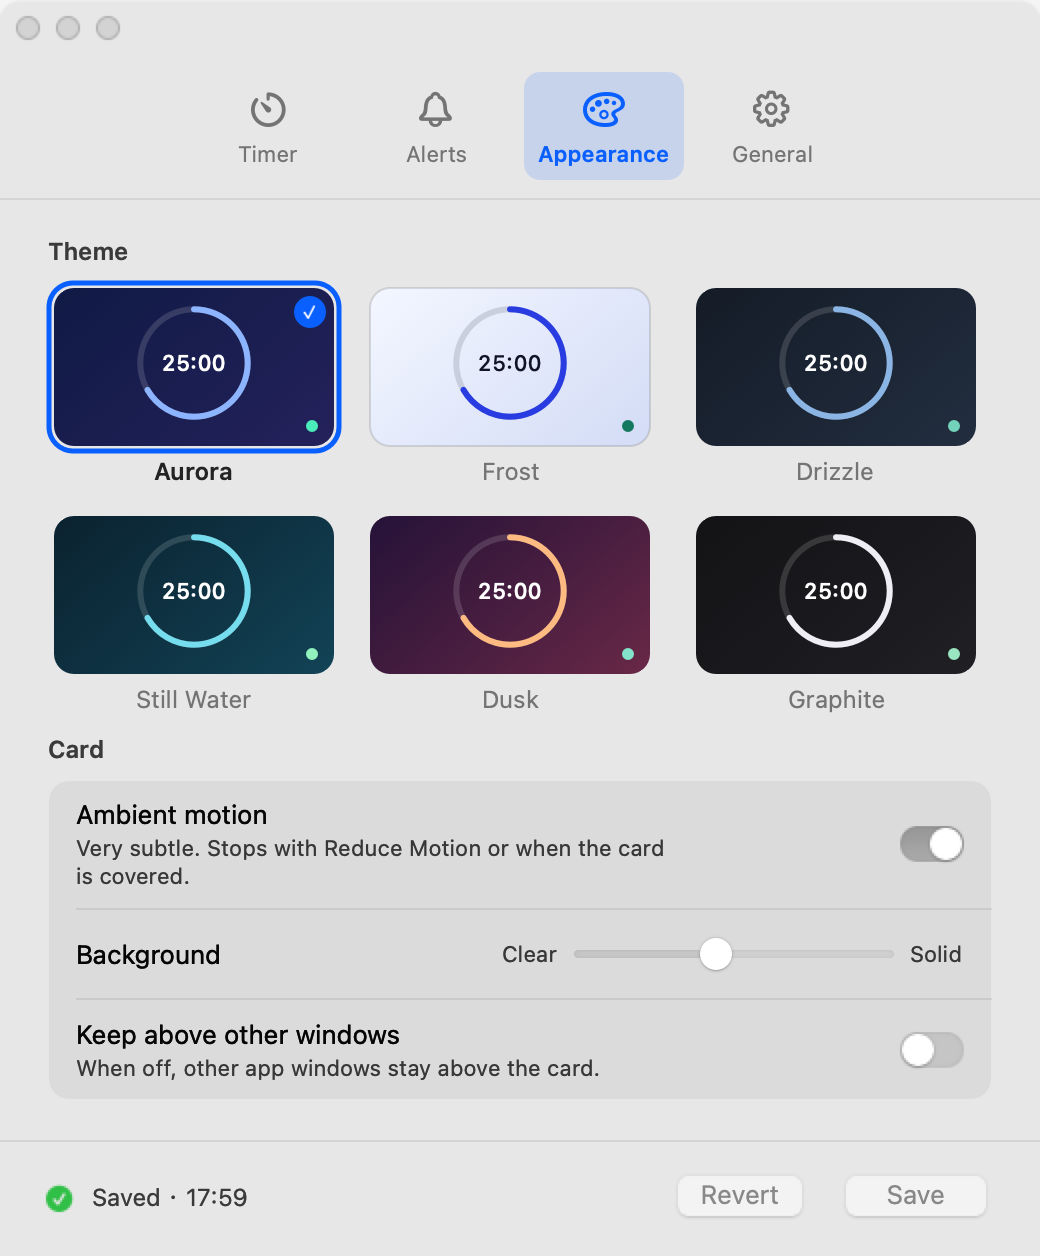
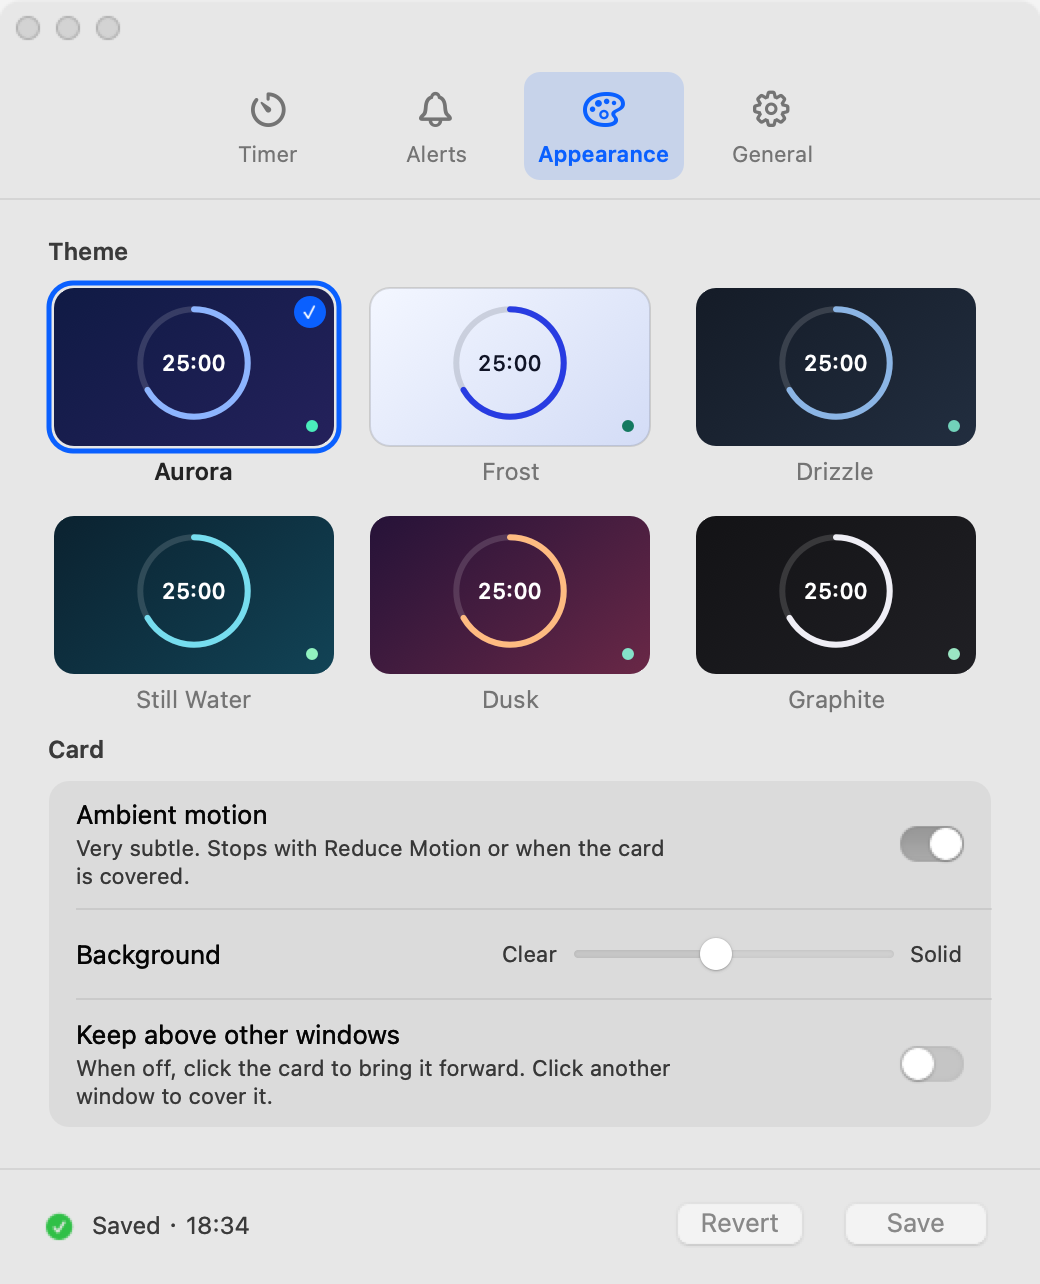
Release FocusCard 3.1.3 with normal window interaction / 发布普通窗口交互版本 3.1.3

diff --git a/src/FocusCard.m b/src/FocusCard.m
@@ -220,6 +220,13 @@ static NSRect TOP(CGFloat x, CGFloat top, CGFloat w, CGFloat h) { return NSMakeR
 @implementation CardWindow
 - (BOOL)canBecomeKeyWindow { return YES; }
 - (BOOL)canBecomeMainWindow { return YES; }
+- (void)sendEvent:(NSEvent *)event {
+    if (event.type == NSEventTypeLeftMouseDown) {
+        if (@available(macOS 14.0, *)) [NSApp activate]; else [NSApp activateIgnoringOtherApps:YES];
+        [self makeKeyAndOrderFront:nil];
+    }
+    [super sendEvent:event];
+}
 // Space starts or pauses the timer unless a focused button wants the key itself.
 - (void)keyDown:(NSEvent *)event {
     NSEventModifierFlags mods = event.modifierFlags & (NSEventModifierFlagCommand | NSEventModifierFlagOption | NSEventModifierFlagControl);
@@ -1290,8 +1297,7 @@ static void setTitle(NSMenuItem *i, NSString *s) { if (i && ![i.title isEqualToS
     self.panel = [[CardWindow alloc] initWithContentRect:self.cardHost.bounds styleMask:NSWindowStyleMaskBorderless backing:NSBackingStoreBuffered defer:NO];
     self.panel.title = T(@"专注卡片", @"FocusCard"); self.panel.opaque = NO; self.panel.backgroundColor = NSColor.clearColor; self.panel.hasShadow = NO;
     self.panel.releasedWhenClosed = NO; self.panel.canHide = NO;
-    self.panel.collectionBehavior = NSWindowCollectionBehaviorCanJoinAllSpaces | NSWindowCollectionBehaviorStationary | NSWindowCollectionBehaviorFullScreenAuxiliary;
-    self.panel.level = self.pinned ? NSFloatingWindowLevel : NSNormalWindowLevel - 1;
+    [self applyCardWindowMode];
     self.panel.contentView = self.cardHost; self.panel.delegate = self;
     [self.panel setAccessibilityLabel:T(@"专注卡片", @"FocusCard")];
 
@@ -1401,14 +1407,19 @@ static void setTitle(NSMenuItem *i, NSString *s) { if (i && ![i.title isEqualToS
     self.lastSeconds = -1; [self refreshForce:YES];
 }
 
+- (void)applyCardWindowMode {
+    self.panel.level = self.pinned ? NSFloatingWindowLevel : NSNormalWindowLevel;
+    self.panel.collectionBehavior = NSWindowCollectionBehaviorCanJoinAllSpaces | NSWindowCollectionBehaviorFullScreenAuxiliary
+        | (self.pinned ? NSWindowCollectionBehaviorStationary : NSWindowCollectionBehaviorManaged);
+}
 - (void)showCard:(id)sender {
     BOOL onScreen = NO;
     for (NSScreen *screen in NSScreen.screens) if (NSIntersectsRect(self.panel.frame, NSInsetRect(screen.visibleFrame, 40, 40))) onScreen = YES;
     if (!onScreen) { NSRect s = (NSScreen.mainScreen ?: NSScreen.screens.firstObject).visibleFrame; NSSize z = self.panel.frame.size; [self.panel setFrameOrigin:NSMakePoint(NSMaxX(s) - z.width - 32, NSMaxY(s) - z.height - 32)]; }
     self.cardVisible = YES; [self save];
     if (self.headless) return;
-    if (self.pinned) { [self activate]; [self.panel makeKeyAndOrderFront:nil]; [self.panel orderFrontRegardless]; }
-    else [self.panel orderFront:nil];
+    [self activate]; [self.panel makeKeyAndOrderFront:nil];
+    if (self.pinned) [self.panel orderFrontRegardless];
     [self.surface updateMotion];
     [self refreshForce:YES];
 }
@@ -1721,7 +1732,7 @@ static const CGFloat kSettingsW = 520, kSettingsTop = 74, kSettingsBottom = 58;
     GroupBox *card = [self group:@[
         [self rowTitle:T(@"环境动效", @"Ambient motion") detail:[self note:T(@"非常轻微。开启“减少动态效果”或卡片被遮挡时自动停止。", @"Very subtle. Stops with Reduce Motion or when the card is covered.") width:300] control:self.ambientSwitch],
         [self rowTitle:T(@"背景", @"Background") detail:nil control:opacity],
-        [self rowTitle:T(@"显示在其他窗口上方", @"Keep above other windows") detail:[self note:T(@"关闭时，其他应用窗口始终显示在卡片上方。", @"When off, other app windows stay above the card.") width:300] control:self.pinSwitch]]];
+        [self rowTitle:T(@"显示在其他窗口上方", @"Keep above other windows") detail:[self note:T(@"关闭时，点击卡片前置；点击其他窗口时由该窗口覆盖。", @"When off, click the card to bring it forward. Click another window to cover it.") width:300] control:self.pinSwitch]]];
     return [self paneWith:@[[self caption:T(@"主题", @"Theme")], grid, [self caption:T(@"卡片", @"Card")], card]];
 }
 - (NSView *)generalPane {
@@ -2025,7 +2036,7 @@ static BOOL languageIsChinese(NSString *pref) { return [pref isEqualToString:@"z
     self.themeKey = themeNamed(d[kTheme]).key; self.ambient = [d[kAmbient] boolValue];
     self.languagePref = [@[@"zh", @"en"] containsObject:d[kLanguage]] ? d[kLanguage] : @"system";
     self.pinned = [d[kPinned] boolValue]; self.glassOpacity = boundedDouble([d[kOpacity] doubleValue], .1, .9, .45); self.showMenuTime = [d[kMenuTime] boolValue];
-    self.panel.level = self.pinned ? NSFloatingWindowLevel : NSNormalWindowLevel - 1;
+    [self applyCardWindowMode];
     if (self.notifications && !wasNotifying) [self ensureNotifications];
     NSString *loginError = nil;
     if ([d[kLogin] boolValue] != [self loginEnabled]) loginError = [self setLogin:[d[kLogin] boolValue]];
@@ -2418,7 +2429,7 @@ static void selfTest(NSString *resultsPath) {
         CHECK(@"SV-01", @"Settings open clean: Save disabled, 'saved' status", ![a settingsDirty] && !a.saveButton.enabled && !a.revertButton.enabled && a.statusLabel.stringValue.length > 0, a.statusLabel.stringValue);
         a.pinSwitch.state = NSControlStateValueOn; [a switchChanged:a.pinSwitch];
         CHECK(@"SV-02", @"A change marks the draft: Save enabled, '1 unsaved change', nothing stored yet", [a settingsDirty] && a.saveButton.enabled && a.revertButton.enabled && a.settingsWindow.documentEdited
-              && [a.statusLabel.stringValue isEqualToString:T(@"1 项未保存的更改", @"1 unsaved change")] && !a.pinned && ![d boolForKey:kPinned] && a.panel.level < NSNormalWindowLevel, a.statusLabel.stringValue);
+              && [a.statusLabel.stringValue isEqualToString:T(@"1 项未保存的更改", @"1 unsaved change")] && !a.pinned && ![d boolForKey:kPinned] && a.panel.level == NSNormalWindowLevel, a.statusLabel.stringValue);
         a.menuTimeSwitch.state = NSControlStateValueOff; [a switchChanged:a.menuTimeSwitch];
         a.focusStepper.integerValue = 26; [a stepDuration:a.focusStepper];
         CHECK(@"SV-03", @"Several changes are counted", [a.statusLabel.stringValue isEqualToString:T(@"3 项未保存的更改", @"3 unsaved changes")] && [a dirtyKeys].count == 3, a.statusLabel.stringValue);
@@ -2430,7 +2441,7 @@ static void selfTest(NSString *resultsPath) {
         CHECK(@"SV-06", @"Save stores the change, applies it and confirms with the time", saved && a.pinned && [d boolForKey:kPinned] && a.panel.level == NSFloatingWindowLevel && ![a settingsDirty] && !a.saveButton.enabled
               && [a.statusLabel.stringValue hasPrefix:T(@"已保存 · ", @"Saved · ")], a.statusLabel.stringValue);
         saveSetting(a, kPinned, @NO);
-        CHECK(@"SV-07", @"Turning it off keeps the card below regular application windows", a.panel.level < NSNormalWindowLevel && ![d boolForKey:kPinned], @"");
+        CHECK(@"SV-07", @"Turning it off uses regular application window ordering", a.panel.level == NSNormalWindowLevel && !(a.panel.collectionBehavior & NSWindowCollectionBehaviorStationary) && ![d boolForKey:kPinned], @"");
         [a durationEditedText:@"abc" rest:NO];
         CHECK(@"SV-08", @"An invalid length is explained and the field returns to the last valid value", [a.focusField.stringValue isEqualToString:@"25"] && [a.durationNote.textColor isEqual:NSColor.systemRedColor], a.durationNote.stringValue);
         a.focusField.stringValue = @"0"; [a controlTextDidChange:[NSNotification notificationWithName:NSControlTextDidChangeNotification object:a.focusField]];
@@ -2952,23 +2963,29 @@ static BOOL windowIsAbove(NSWindow *front, NSWindow *back) {
     [self step:@"UI-20" desc:@"Click Save: stored, 'Saved' with the time, Save disabled, running timer unchanged" wait:.5 shots:@[@"settings"] action:^(AppDelegate *a) { postClick(a.saveButton); }
          check:^NSString *(AppDelegate *a) { NSString *r = saved(a); return r ?: expect(a.focusMinutes == 41 && [a.defaults integerForKey:kFocus] == 41 && a.running && [a secondsRemaining] <= 1500, S(@"min=%ld", (long)a.focusMinutes)); }];
     [self step:@"UI-21" desc:@"Turn on 'Keep above': not applied until Save; Save floats the card" wait:.5 shots:@[] action:^(AppDelegate *a) { press(a.paneButtons[2]); toggleSwitch(a.pinSwitch); }
-         check:^NSString *(AppDelegate *a) { BOOL waiting = a.panel.level < NSNormalWindowLevel && [a settingsDirty]; press(a.saveButton); BOOL on = a.panel.level == NSFloatingWindowLevel && a.pinned;
-                                             toggleSwitch(a.pinSwitch); press(a.saveButton); BOOL off = a.panel.level < NSNormalWindowLevel && !a.pinned;
+         check:^NSString *(AppDelegate *a) { BOOL waiting = a.panel.level == NSNormalWindowLevel && [a settingsDirty]; press(a.saveButton); BOOL on = a.panel.level == NSFloatingWindowLevel && a.pinned;
+                                             toggleSwitch(a.pinSwitch); press(a.saveButton); BOOL off = a.panel.level == NSNormalWindowLevel && !a.pinned;
                                              NSPoint p = [a.saveButton convertPoint:NSMakePoint(NSMidX(a.saveButton.bounds), NSMidY(a.saveButton.bounds)) toView:nil];
                                              NSView *hit = [a.settingsWindow.contentView.superview hitTest:[a.settingsWindow.contentView.superview convertPoint:p fromView:nil]];
                                              return expect(waiting && on && off, S(@"waiting=%d on=%d off=%d hit=%@ enabled=%d", waiting, on, off, hit.className, a.saveButton.enabled)); }];
-    [self step:@"UI-21b" desc:@"An unpinned card stays below a regular window when shown" wait:.4 shots:@[] action:^(AppDelegate *a) {
-            coverWindow = [[NSWindow alloc] initWithContentRect:NSInsetRect(a.panel.frame, -20, -20) styleMask:NSWindowStyleMaskBorderless backing:NSBackingStoreBuffered defer:NO];
+    [self step:@"UI-21b" desc:@"Showing an unpinned card brings it above another regular window" wait:.4 shots:@[] action:^(AppDelegate *a) {
+            coverWindow = [[NSWindow alloc] initWithContentRect:NSInsetRect(a.panel.frame, -20, -20) styleMask:NSWindowStyleMaskTitled backing:NSBackingStoreBuffered defer:NO];
             coverWindow.releasedWhenClosed = NO; coverWindow.level = NSNormalWindowLevel;
-            [coverWindow orderFrontRegardless]; [a showCard:nil]; }
-         check:^NSString *(AppDelegate *a) { return expect(windowIsAbove(coverWindow, a.panel), @"The regular window must cover the unpinned card"); }];
-    [self step:@"UI-21c" desc:@"A pinned card is above a regular window in the window server" wait:.4 shots:@[] action:^(AppDelegate *a) {
-            saveSetting(a, kPinned, @YES); [a showCard:nil]; }
-         check:^NSString *(AppDelegate *a) { return expect(windowIsAbove(a.panel, coverWindow), @"The pinned card must cover the regular window"); }];
-    [self step:@"UI-21d" desc:@"Turning pinning off immediately places the card below a regular window" wait:.4 shots:@[] action:^(AppDelegate *a) {
-            saveSetting(a, kPinned, @NO); }
+            [coverWindow makeKeyAndOrderFront:nil]; [a showCard:nil]; }
+         check:^NSString *(AppDelegate *a) { return expect(windowIsAbove(a.panel, coverWindow), @"The shown card must be in front"); }];
+    [self step:@"UI-21c" desc:@"Selecting another regular window covers the unpinned card" wait:.4 shots:@[] action:^(AppDelegate *a) {
+            [coverWindow makeKeyAndOrderFront:nil]; }
+         check:^NSString *(AppDelegate *a) { return expect(windowIsAbove(coverWindow, a.panel), @"The selected regular window must be in front"); }];
+    [self step:@"UI-21d" desc:@"Clicking the unpinned card brings it back to the front" wait:.4 shots:@[] action:^(AppDelegate *a) {
+            postClickAt(a.card, NSMakePoint(150, 8), 1); }
+         check:^NSString *(AppDelegate *a) { return expect(windowIsAbove(a.panel, coverWindow), @"The clicked card must return to the front"); }];
+    [self step:@"UI-21e" desc:@"A pinned card stays above a selected regular window" wait:.4 shots:@[] action:^(AppDelegate *a) {
+            saveSetting(a, kPinned, @YES); [coverWindow makeKeyAndOrderFront:nil]; }
+         check:^NSString *(AppDelegate *a) { return expect(windowIsAbove(a.panel, coverWindow), @"The pinned card must stay in front"); }];
+    [self step:@"UI-21f" desc:@"After unpinning, selecting a regular window covers the card again" wait:.4 shots:@[] action:^(AppDelegate *a) {
+            saveSetting(a, kPinned, @NO); [coverWindow makeKeyAndOrderFront:nil]; }
          check:^NSString *(AppDelegate *a) { BOOL below = windowIsAbove(coverWindow, a.panel); [coverWindow close]; coverWindow = nil;
-            [a.settingsWindow makeKeyAndOrderFront:nil]; return expect(below, @"Saving unpinned mode must lower the card immediately"); }];
+            [a.settingsWindow makeKeyAndOrderFront:nil]; return expect(below, @"The unpinned card must follow regular ordering"); }];
     [self step:@"UI-22" desc:@"Appearance: click the Rain theme tile: the card previews it, 1 unsaved change" wait:.6 shots:@[@"settings", @"card"] action:^(AppDelegate *a) {
             ThemeTile *t = nil; for (ThemeTile *x in a.themeTiles) if ([x.theme.key isEqualToString:@"rain"]) t = x; press(t); }
          check:^NSString *(AppDelegate *a) { ThemeTile *t = a.themeTiles[2]; NSPoint p = [t convertPoint:NSMakePoint(NSMidX(t.bounds), NSMidY(t.bounds)) toView:nil];

diff --git a/docs/TESTING.md b/docs/TESTING.md
@@ -1,4 +1,4 @@
-# Validation report · FocusCard 3.1.2
+# Validation report · FocusCard 3.1.3
 
 [English](TESTING.md) | [简体中文](TESTING.zh-CN.md)
 
@@ -12,7 +12,7 @@ Date: 2026-10-21, Asia/Shanghai.
 | Architecture | Apple Silicon, arm64 |
 | SDK | macOS 15.2 |
 | Minimum build target | macOS 13.0 |
-| App version / build | 3.1.2 / 6 |
+| App version / build | 3.1.3 / 7 |
 | Signature | Ad hoc |
 | Apple notarization | None |
 
@@ -22,11 +22,11 @@ Date: 2026-10-21, Asia/Shanghai.
 | --- | ---: | ---: | ---: |
 | Chinese self-tests | 185 | 0 | 0 |
 | English self-tests | 185 | 0 | 0 |
-| Chinese live UI tests | 62 | 0 | 2 |
-| English live UI tests | 61 | 0 | 3 |
-| Total | 493 | 0 | 5 |
+| Chinese live UI tests | 63 | 0 | 3 |
+| English live UI tests | 63 | 0 | 3 |
+| Total | 496 | 0 | 6 |
 
-The five blocked entries cover window drag in both languages, Command-W on the card in both languages, and Command-W on Settings in English.
+The six blocked entries cover window drag, Command-W on the card, and Command-W on Settings in both languages.
 The keyboard checks need the test app to retain foreground focus.
 They do not count as passes.
 
@@ -41,12 +41,17 @@ They do not count as passes.
 - State restoration, damaged preferences, clock changes, and separate test preferences.
 - View bounds, text fit, control labels, accessibility roles, and theme color calculations.
 - The custom card shadow, transparent padding, and compact window dimensions.
-- Window-server ordering with a regular cover window: unpinned display, pinned display, and immediate lowering after Save. Each case runs in both languages.
+- Window-server ordering with a regular cover window: show the card, select another window, click the card again, enable pinning, and disable pinning. Each case runs in both languages.
 - Ambient motion during use, while hidden, and after a setting change.
 
 The self-tests model notification delivery and login registration.
 The live UI tests also replace these system operations.
 The tests do not change notification permission or login registration.
+
+A separate application window also covered the unpinned card when it activated.
+A computer-use click on the card brought the card above that window again.
+Window-server metadata confirmed that both windows used level 0.
+This check does not replace a physical mouse check.
 
 ## Performance samples
 
@@ -56,10 +61,10 @@ These samples do not establish a long-term performance guarantee.
 
 | Measurement | Chinese run | English run | Test limit |
 | --- | ---: | ---: | ---: |
-| CPU, running with Drizzle motion | 0.93% | 1.37% | Below 2% |
-| CPU, idle with Graphite | 0.04% | 0.02% | Below 0.5% |
-| CPU, idle with card hidden | 0.11% | 0.13% | Diagnostic only |
-| Resident memory after UI tests | 42.0 MB | 48.5 MB | Below 120 MB |
+| CPU, running with Drizzle motion | 1.05% | 1.24% | Below 2% |
+| CPU, idle with Graphite | 0.03% | 0.03% | Below 0.5% |
+| CPU, idle with card hidden | 0.13% | 0.09% | Diagnostic only |
+| Resident memory after UI tests | 77.9 MB | 53.0 MB | Below 120 MB |
 
 ## Pending checks
 
@@ -93,7 +98,7 @@ The self-tests store timer data in `focuscard.selftest`.
 The test app uses the same compiled executable before it receives a separate signature.
 
 The script refreshes Launch Services registration before launching the UI tests.
-The recorded Chinese UI run used the executable directly; the English run used Launch Services.
+The script uses the executable if Launch Services cannot start the test app. Both recorded UI runs used this fallback.
 The script checks the result file after the test app exits.
 The report counts completed result entries, including the final preference check.
 The raw UI JSON total field records the planned steps; the release report also records the completed count.

diff --git a/docs/TESTING.zh-CN.md b/docs/TESTING.zh-CN.md
@@ -1,4 +1,4 @@
-# 验证报告 · 专注卡片 3.1.2
+# 验证报告 · 专注卡片 3.1.3
 
 [English](TESTING.md) | [简体中文](TESTING.zh-CN.md)
 
@@ -12,7 +12,7 @@
 | 架构 | Apple Silicon，arm64 |
 | SDK | macOS 15.2 |
 | 最低构建目标 | macOS 13.0 |
-| 应用版本 / 构建号 | 3.1.2 / 6 |
+| 应用版本 / 构建号 | 3.1.3 / 7 |
 | 签名 | 临时签名 |
 | Apple 公证 | 无 |
 
@@ -22,11 +22,11 @@
 | --- | ---: | ---: | ---: |
 | 中文自检 | 185 | 0 | 0 |
 | 英文自检 | 185 | 0 | 0 |
-| 中文实时 UI 测试 | 62 | 0 | 2 |
-| 英文实时 UI 测试 | 61 | 0 | 3 |
-| 合计 | 493 | 0 | 5 |
+| 中文实时 UI 测试 | 63 | 0 | 3 |
+| 英文实时 UI 测试 | 63 | 0 | 3 |
+| 合计 | 496 | 0 | 6 |
 
-五项受限记录涉及两种语言下的窗口拖动、两种语言下卡片的 Command-W，以及英文设置窗口的 Command-W。
+六项受限记录涉及中英文各自的窗口拖动、卡片 Command-W 和设置窗口 Command-W。
 键盘关闭检查需要测试应用持续保有前台焦点。
 受限记录不计为通过。
 
@@ -41,11 +41,16 @@
 - 状态恢复、损坏的偏好设置、时钟变化和测试配置隔离。
 - 控件边界、文字容纳、辅助功能标签、角色和主题颜色计算。
 - 卡片自绘阴影、透明边距和紧凑模式窗口尺寸。
-- 通过普通遮挡窗口检查窗口服务器中的实际顺序：关闭置顶时显示卡片、开启置顶、保存关闭后立即降层。每种状态均测试中英文。
+- 通过普通遮挡窗口检查窗口服务器中的实际顺序：显示卡片、选中其他窗口、再次点击卡片、开启置顶和关闭置顶。每种状态均测试中英文。
 - 使用中、隐藏后和设置修改后的环境动效。
 
 自检和实时 UI 测试均替代了系统通知发送和登录项注册操作。
 测试不会更改系统通知权限或登录项注册状态。
+
+另用独立应用窗口验证：该应用激活后可覆盖关闭置顶的卡片。
+通过桌面交互工具点击卡片后，卡片可重新前置。
+窗口服务器元数据确认两个窗口均处于第 0 层。
+此检查不替代实体鼠标复核。
 
 ## 性能采样
 
@@ -55,10 +60,10 @@
 
 | 指标 | 中文运行 | 英文运行 | 测试阈值 |
 | --- | ---: | ---: | ---: |
-| 细雨动效下运行计时的 CPU | 0.93% | 1.37% | 低于 2% |
-| 石墨主题空闲时的 CPU | 0.04% | 0.02% | 低于 0.5% |
-| 卡片隐藏且空闲时的 CPU | 0.11% | 0.13% | 仅记录 |
-| UI 测试结束后的常驻内存 | 42.0 MB | 48.5 MB | 低于 120 MB |
+| 细雨动效下运行计时的 CPU | 1.05% | 1.24% | 低于 2% |
+| 石墨主题空闲时的 CPU | 0.03% | 0.03% | 低于 0.5% |
+| 卡片隐藏且空闲时的 CPU | 0.13% | 0.09% | 仅记录 |
+| UI 测试结束后的常驻内存 | 77.9 MB | 53.0 MB | 低于 120 MB |
 
 ## 待确认范围
 
@@ -92,7 +97,7 @@ bash scripts/test.sh
 测试应用使用同一编译产物，并为独立应用标识重新签名。
 
 脚本启动 UI 测试前会刷新 Launch Services 注册。
-本次中文 UI 测试直接运行可执行文件，英文 UI 测试通过 Launch Services 启动。
+Launch Services 无法启动测试应用时，脚本改为直接运行可执行文件。本次中英文 UI 测试均使用此方式。
 脚本会在测试应用退出后检查结果文件。
 报告按已完成的结果条目计数，包含最后的偏好设置保持检查。
 原始 UI JSON 的 total 字段表示计划步骤数；发布报告另记实际完成数量。

diff --git a/README.md b/README.md
@@ -49,7 +49,7 @@ The prompt image uses a sample desktop.
 - Select the language: System, 简体中文 or English.
 - See the number of focus sessions that you completed today next to the phase name.
 - Show the countdown in the menu bar while a timer runs.
-- Keep the card above other windows, or place it below regular app windows.
+- Keep the card above other windows, or let it follow normal window ordering.
 - Adjust the card background.
 - Open the app automatically at login.
 - The app restores the timer and the card position when it opens again.
@@ -80,7 +80,7 @@ The app does not use the network.
 
 ## Download
 
-[Download version 3.1.2](https://github.com/hzxwonder/focus-card-macos/releases/tag/v3.1.2).
+[Download version 3.1.3](https://github.com/hzxwonder/focus-card-macos/releases/tag/v3.1.3).
 Select the archive for Apple Silicon (`arm64`).
 Extract the archive.
 Move `FocusCard.app` to Applications.
@@ -180,8 +180,8 @@ Changes are a draft until you select **Save** (or press Return).
 - **Restore Defaults** puts the default values in the draft. Select Save to apply them. It does not change the timer or today's sessions.
 - A new language applies after the app opens again. Select **Relaunch Now**. The timer continues.
 
-When **Keep above other windows** is off, regular app windows stay above the card.
-Showing the card keeps the current app active. Use Show Desktop to reach a covered card, or turn this option on to keep it visible over your work.
+When **Keep above other windows** is off, click the card to bring it forward. Click another app window to place that window in front of the card.
+When this option is on, the card stays above regular app windows.
 
 ## Notifications
 
@@ -226,8 +226,8 @@ The tests open windows and prompts on the current desktop.
 JSON results and logs appear in `build/test-results/`.
 A blocked check does not count as a pass.
 
-The current run passed 493 checks, with no failed checks.
-Five entries need manual checks for window drag or foreground keyboard focus.
+The current run passed 496 checks, with no failed checks.
+Six entries need manual checks for window drag or foreground keyboard focus.
 See [the validation report](docs/TESTING.md) for results, performance measurements, and test limits.
 
 You can run the self-tests directly:

diff --git a/README.zh-CN.md b/README.zh-CN.md
@@ -47,7 +47,7 @@
 - 使用“仅系统通知”提示方式时，可选择专注与休息之间自动开始。
 - 在阶段名称旁显示今天完成的专注轮数。
 - 计时时在菜单栏显示剩余时间。
-- 卡片可以显示在其他窗口上方，也可以放在普通应用窗口下方。
+- 开启置顶可悬浮显示，关闭时按普通窗口方式前后切换。
 - 可调整卡片背景。
 - 可在登录时自动打开。
 - 再次打开应用时，恢复计时状态和卡片位置。
@@ -77,7 +77,7 @@
 
 ## 下载
 
-[下载 3.1.2 版](https://github.com/hzxwonder/focus-card-macos/releases/tag/v3.1.2)。
+[下载 3.1.3 版](https://github.com/hzxwonder/focus-card-macos/releases/tag/v3.1.3)。
 选择 Apple Silicon（`arm64`）软件包。
 解压后，将 `FocusCard.app` 移到“应用程序”目录。
 打开应用。
@@ -171,8 +171,8 @@
 - “恢复默认设置”把默认值放入草稿，保存后生效，不影响当前计时和今日轮数。
 - 新语言在应用重新打开后生效。选择“立即重新打开”即可，计时不中断。
 
-关闭“显示在其他窗口上方”后，普通应用窗口始终位于卡片上方。
-显示卡片时保留当前应用焦点。卡片被覆盖时，可通过“显示桌面”访问；如需工作时持续可见，可开启此选项。
+关闭“显示在其他窗口上方”后，点击卡片会前置；点击其他软件窗口时，该窗口会覆盖卡片。
+开启此选项后，卡片保持在普通应用窗口上方。
 
 ## 通知
 
@@ -216,7 +216,7 @@ UI 测试使用独立的应用标识和偏好设置域。
 JSON 结果与日志位于 `build/test-results/`。
 受自动化环境限制的检查不计为通过。
 
-本次共通过 493 项检查，没有失败项；五项记录需要人工复核窗口拖动或前台键盘焦点。
+本次共通过 496 项检查，没有失败项；六项记录需要人工复核窗口拖动或前台键盘焦点。
 具体结果、性能测量和测试范围见[验证报告](docs/TESTING.zh-CN.md)。
 
 也可以直接运行自检：
